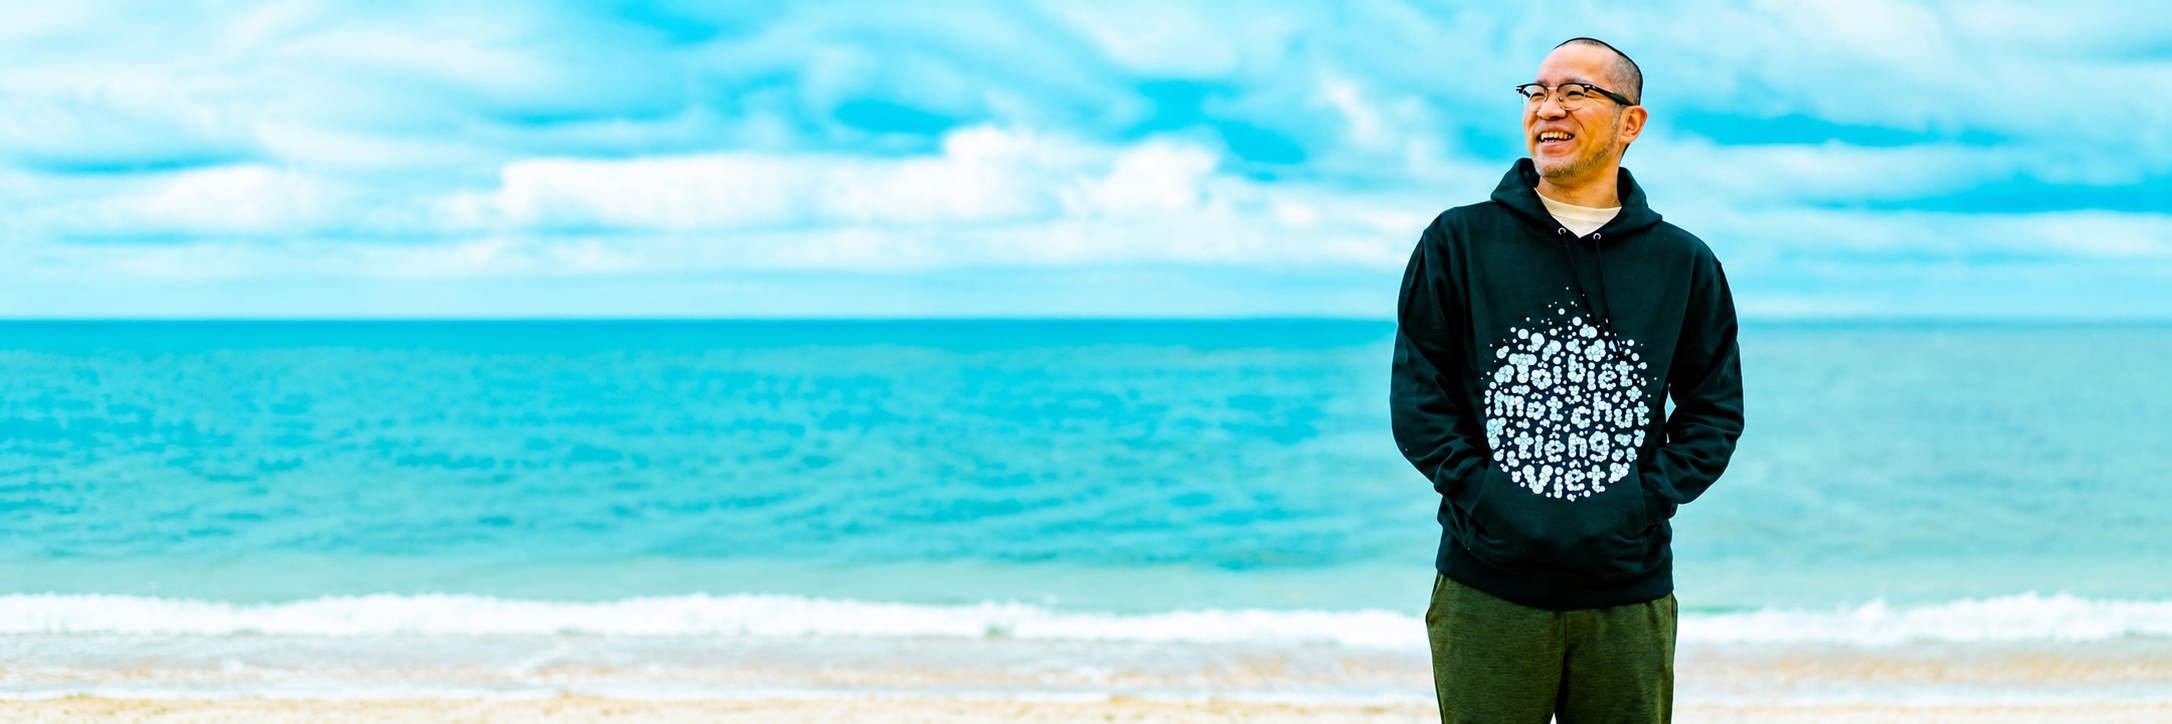
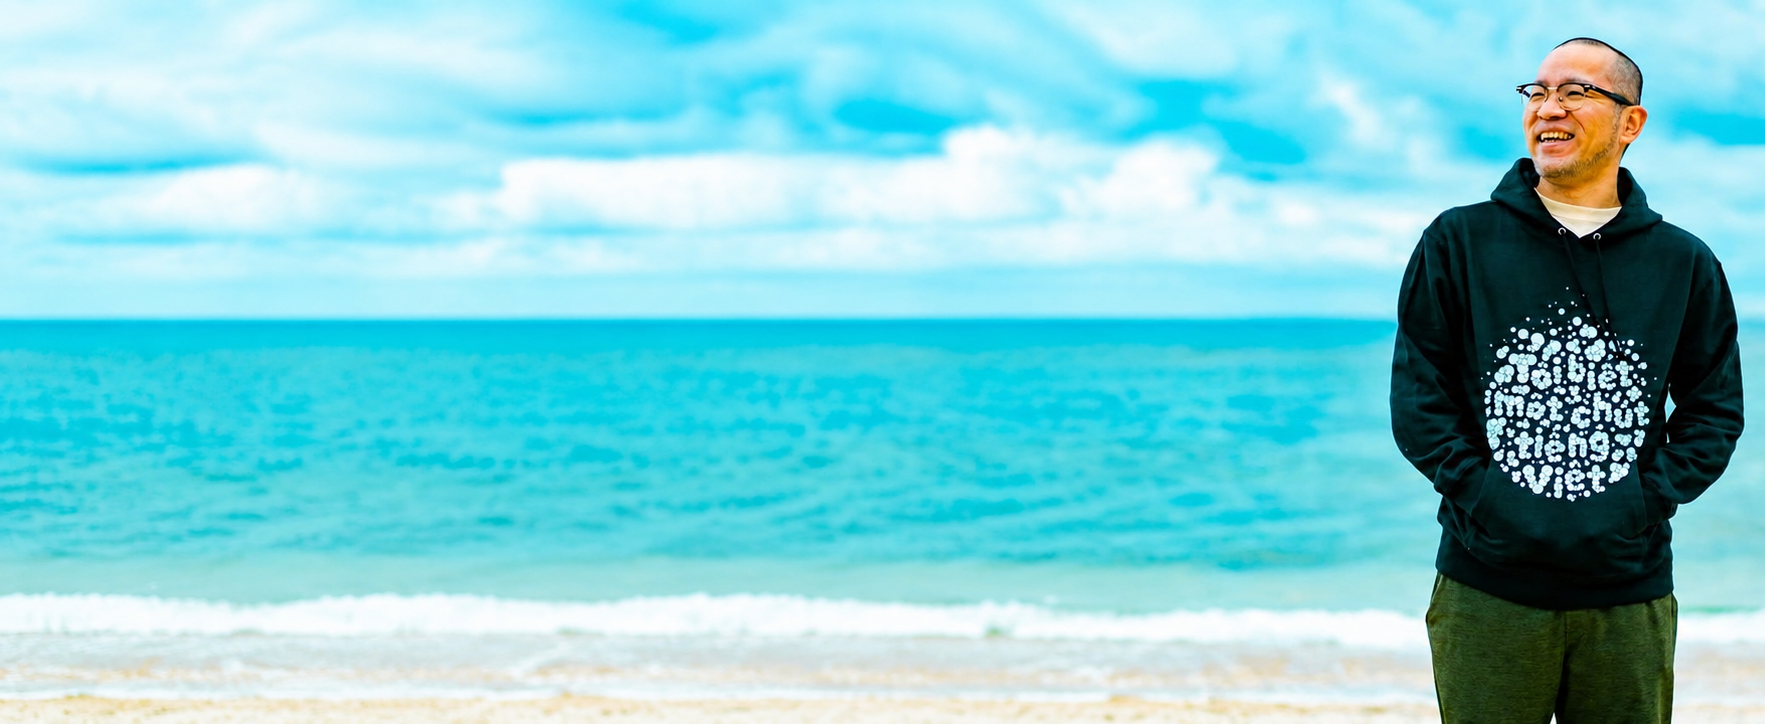
写真位置の微調整、文言修正、「できること」を廃止して「お仕事募集」記事に統合
【写真位置】
- PC：人物右寄りのカット自体を事前に右トリミングし、コンテナのアスペクト比に
  依存せず確実に人物が右側に来るようにした
- スマホ：object-positionを右上寄りに調整し、右上のスペースに顔が収まるように

【文言修正】
- ナビ「やってきたこと」→「制作実績」、「できること」→「お仕事募集」
- ヒーローのリード文を一部差し替え（デジタル百姓の言い回しを簡潔に、
  結びの「つないできました」を削除）
- 「おもなプロジェクト」見出しに「（制作実績）」を付記

【できること→お仕事募集】
- トップページの「できること」セクション（価格目安を含む）を廃止し、
  同じ位置にシンプルな「仕事を依頼する」ボタン（WorkCta.astro）を設置
- 遷移先として、お仕事メニュー・料金の目安をまとめた記事を
  news化して新規作成（/news/2026-08-work-request/）。
  グローバルナビの「お仕事募集」はこの記事に直接リンクする
- 記事本文は日本語固定のため、この導線（WorkCta・ナビのリンク先）も
  ロケール共通で日本語固定にしている（既存のjaOnlyNoteパターンと同じ割り切り）

diff --git a/src/i18n/ja.ts b/src/i18n/ja.ts
@@ -8,10 +8,10 @@ export const ja: Dict = {
   },
   nav: {
     about: 'ネルソンのこと',
-    projects: 'やってきたこと',
+    projects: '制作実績',
     company: '会社概要',
     contact: 'ご相談',
-    services: 'できること',
+    services: 'お仕事募集',
   },
   toolbar: {
     fontSize: '文字の大きさ',
@@ -23,7 +23,7 @@ export const ja: Dict = {
   hero: {
     titleHtml:
       '<span class="marker">“あいだ”で、<br class="sm:hidden" />つくって、つなぐ。</span>',
-    lead: 'ネルソン水嶋です。作ってきたものは、記事、冊子、アプリ…差し詰め、「デジタル百姓」といったところですが、目的は、いつも、<strong>“あいだ”でつくってつなぐこと</strong>。<span class="mt-3 block"><span class="marker-umi">ベトナムでは日本とのあいだを</span>、<span class="marker-akatsuchi">沖永良部島では外国人と日本人とのあいだを</span>、<span class="marker-gajumaru">そしていまは、東京で、出身者と島ルーツのあいだを</span>、つないできました。</span>',
+    lead: 'ネルソン水嶋です。作ってきたものは、記事、冊子、アプリ…と、いろいろありますが、目的は、いつも、<strong>“あいだ”でつくってつなぐこと</strong>。<span class="mt-3 block"><span class="marker-umi">ベトナムでは日本とのあいだを</span>、<span class="marker-akatsuchi">沖永良部島では外国人と日本人とのあいだを</span>、<span class="marker-gajumaru">そしていまは、東京で、出身者と島ルーツのあいだを</span>。</span>',
     cta: 'ネルソンのことを知る',
     tags: ['社会教育士', '多文化共生マネージャー', 'Google AI Professional 認定', '元システムエンジニア', 'ライター・編集者', '沖永良部島ルーツ', 'ドリアンマン'],
   },
@@ -86,7 +86,7 @@ export const ja: Dict = {
     ],
   },
   projects: {
-    heading: 'おもなプロジェクト',
+    heading: 'おもなプロジェクト（制作実績）',
     lead: '「事業内容」と言うと堅いので、これまで形にしてきたプロジェクトを並べます。それぞれ、読み物として書いています。',
     categories: {
       mediaOps: {

diff --git a/src/content/news/2026-08-work-request.md b/src/content/news/2026-08-work-request.md
@@ -1,0 +1,67 @@
+---
+title: お仕事のご依頼について（メニューと料金の目安）
+date: 2026-08-08
+summary: ご提供している主なサービスと料金の目安をまとめました。ブレスト段階のざっくりしたご相談も大歓迎です。
+---
+
+こんにちは、ネルソン水嶋です。
+
+私は15年以上のフリーランス・起業家人生の中で、言葉を扱う「編集・ライター」としての血の通った現場取材から、AIやコードを駆使してシステムを動かす「デジタルプロトタイピング」まで、デジタルとアナログを組み合わせて多品種農業のように様々な生業を営んできました。
+
+「何か頼みたいけれど、結局何をお願いできるの？」「いくらくらいで受けてくれるの？」という疑問にお答えするため、ご提供している主なサービスと料金の目安をまとめました。
+「こんなおもしろいこと仕掛けたいんだけど、いくらでできる？」といった、ブレスト段階のざっくりしたご相談も大歓迎です。まずは以下の目安を参考にしてみてください。具体的な事例は[立ち上げたり関わったりした仕事](/#projects)をご覧ください。
+
+## 📋 お仕事メニュー＆料金プラン
+
+### 1. 取材・編集・ライティング
+
+現場に深く入り込み、当事者も気づいていない本音やストーリーを紡ぎ出すコンテンツ制作、および地域やコミュニティに深く愛される冊子の編集を企画から丸ごと引き受けます。
+
+**記事・コラム執筆：5万円〜 / 本**
+
+\#企画から執筆まで　#インタビュー　#求人記事執筆
+
+※移住、キャリア、採用などをテーマにしたインタビュー記事、ハウツー系の完全攻略ガイド記事、各種コラムなどの執筆実績が多数あります。
+
+**広報冊子・ZINE・生活ガイド等の企画・編集：15万円〜 / 冊　※8Pとした場合**
+
+\#冊子・ZINE制作　#取材執筆・編集指導　#行政連携
+
+※中高生とコラボした地域職業図鑑、自治体と連携した多言語の生活ガイドブック、文化・言語の記録や継承を目的とした冊子などの企画・構成・執筆・制作指導を行っています。
+
+### 2. クラウドファンディング伴走・資金調達
+
+単に資金を集めるだけでなく、プロジェクト終了後も熱量が残り続けるコミュニティを育てるための伴走支援です。企画設計、ページ作成、文章執筆、リターン設計から発信戦略までトータルでサポートします。
+
+**クラウドファンディング伴走支援：成功報酬 × 5%〜　※クラファン終了までの打ち合わせと資料作成**
+
+\#クラファン伴走支援　#ファンドレイジング　#コミュニティ設計
+
+（※プラットフォーム側の利用料・手数料に含まれる形での対応を想定しているため、起案者さまの実質的な追加の持ち出し費用はゼロでご依頼いただけます）
+
+※実績：国際協力、教育支援、伝統文化の復刻、地域複合施設の立ち上げなど、多様なジャンルのプロジェクトを目標達成に導いてきました。
+
+### 3. AI・デジタルプロトタイピング
+
+「こんなマップやWebツールがほしい」「自動案内ボットをLINEで作れないか」というアイデアを、生成AIやノーコード、プログラミングを駆使して、数日〜1週間で実際に動くプロトタイプ（試作品）にします。
+
+**アプリ・Webツール・LINEボットのプロトタイプ構築：10万円〜 / 回**
+
+\#アプリ爆速開発　#LINE情報システム構築　#多言語AIチャットボット
+
+※地域ゆかりの店舗を可視化するWebマップ、ワンクリックで起動するイベント情報共有システム、生活案内を行う多言語AIチャットボット、文字起こしから記事案を作るAI執筆アシスタントツールなどの構築実績があります。
+
+## 🤝 ご相談からお仕事開始までの流れ
+
+「やりたい構想はあるけれど、どのメニューに当てはまるか分からない」という場合も、無料で壁打ち相手になることも可能です。お気軽にご連絡ください。
+
+「こんなアイデアがあるんだけど、プロトタイプを作れる？」「執筆の相談に乗ってほしい」など、[お問い合わせ](/#contact)からご連絡ください。
+
+1. **Zoomにて「30分の無料壁打ち」を実施**
+   ざっくばらんにご要望や課題をお聞きし、最適な解決アプローチとざっくりとした予算感をご提案します。
+2. **正式なプラン提案とお見積り**
+   内容にご納得いただけましたら、正式な仕様とスケジュール、お見積もりを提示してお仕事を開始します。
+
+## 📬 お問い合わせ
+
+仕事のご依頼や、まずは「ちょっと話を聞いてみたい」という方も、[お気軽にお問い合わせください](/#contact)。
